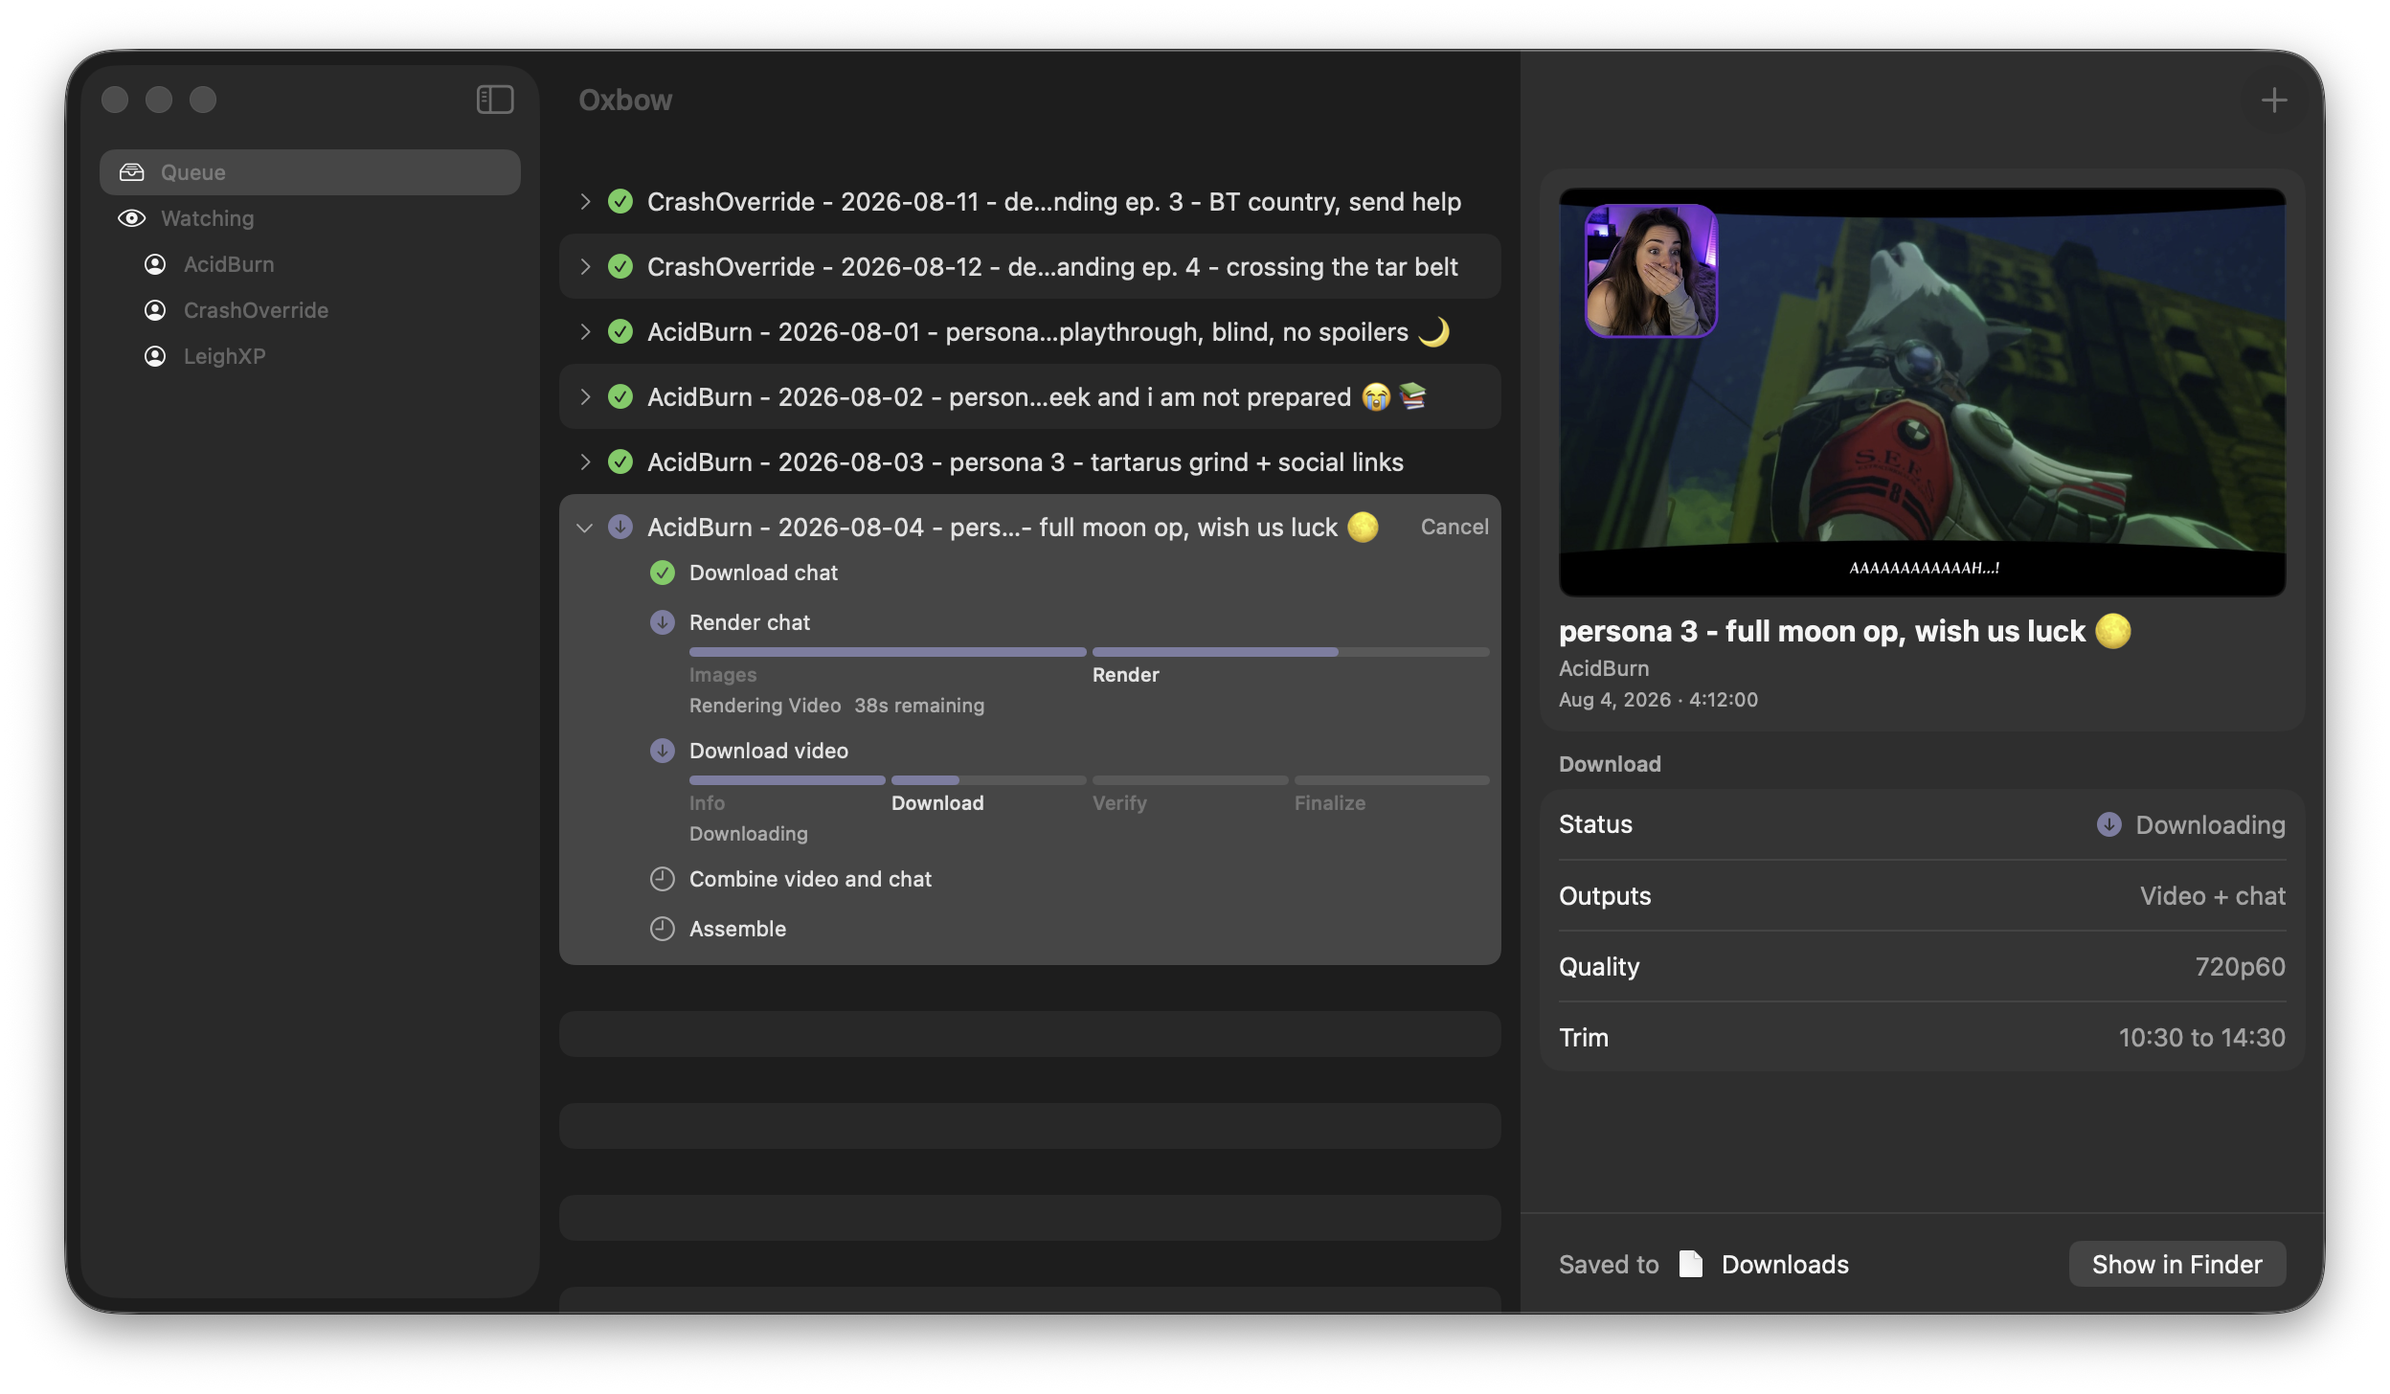
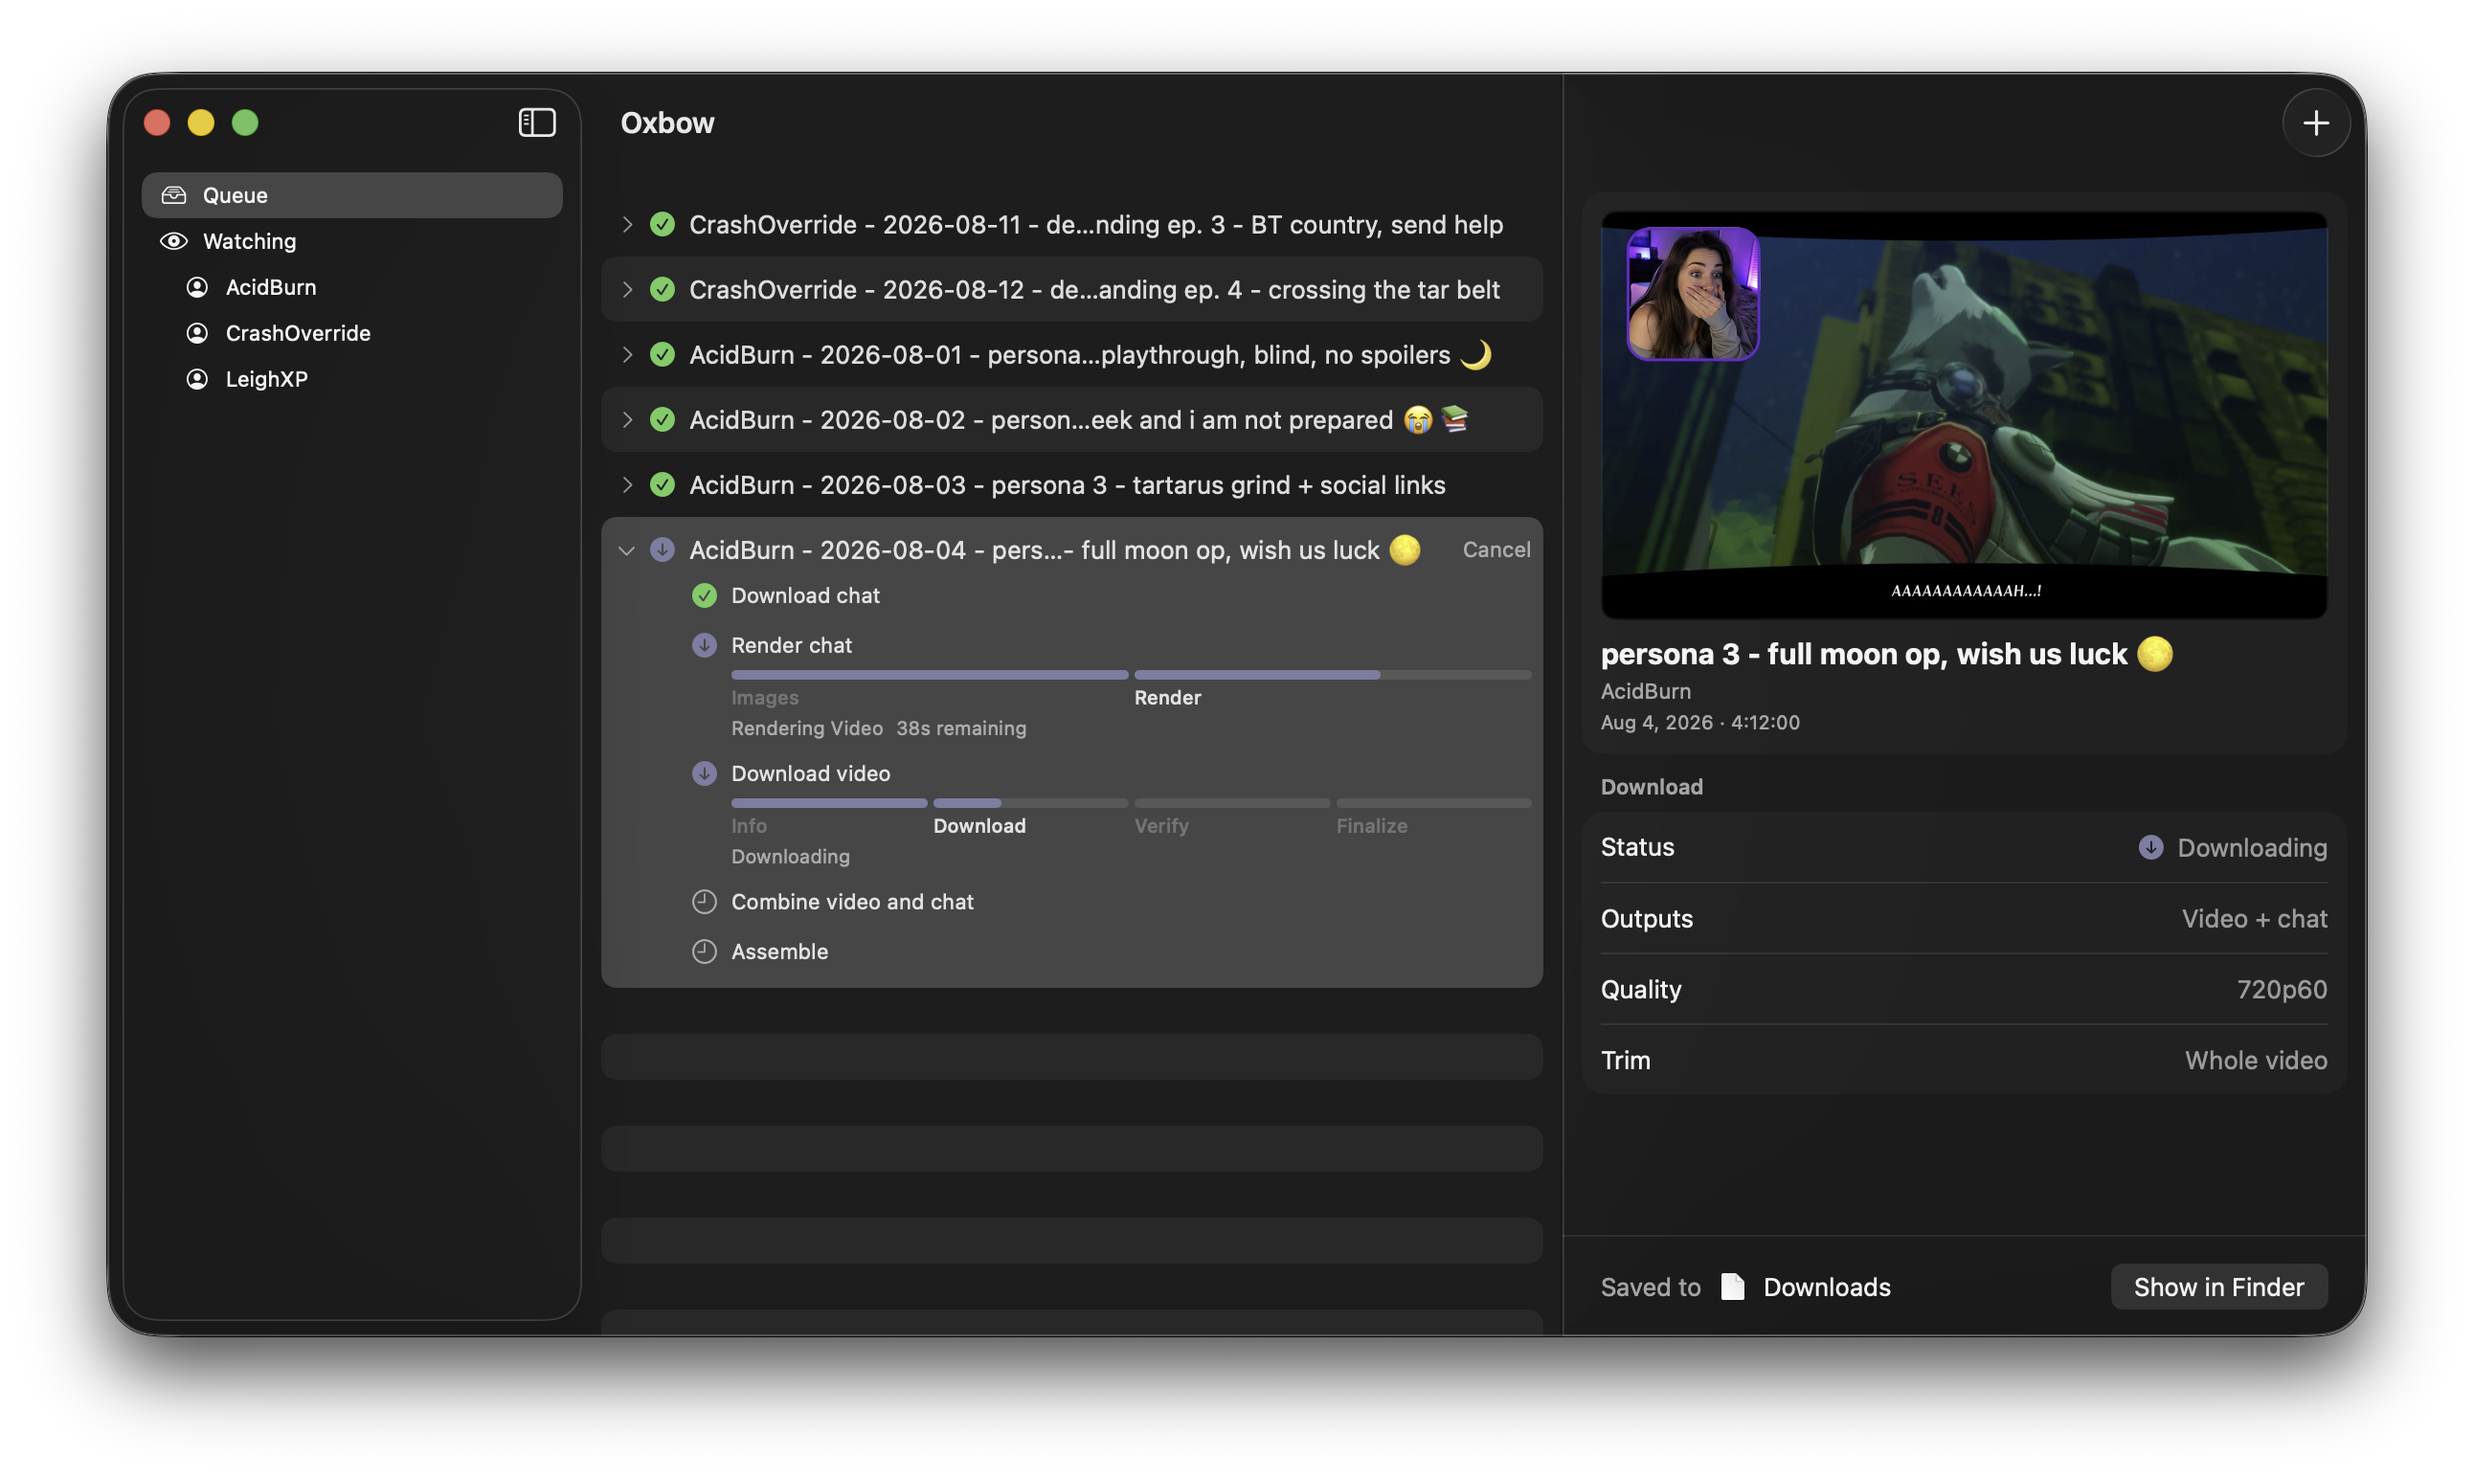
Capture an active window, downloading a whole video
Two things the regenerated screenshot showed that it should not have.

**The window was inactive.** Grey traffic lights, an unaccented default
button, a smaller shadow — not what anyone's Oxbow looks like while they are
using it. The harness settled for that because a shell-launched process is not
frontmost and `NSApp.activate` only sometimes wins that fight. The fix is the
launch, not the API: `open -n` is an ordinary foreground launch, so the app
comes forward the way it would from the Dock. `ScreenshotWindowFocus` then
raises the queue window back over the intake, which opens after it and takes
key status with it. The PID now comes from `pgrep` on the build's own path,
since `open` returns without telling us what it started — and that path cannot
match the developer's own instance, which is what `-n` and the old direct
launch were both protecting.

The composite's scale gained two terms that fit the whole capture inside the
canvas: an active window's shadow is much larger, enough to run off the edge
while the window body still sat a comfortable 74px inside it.

**Every job in the fixture was trimmed**, the mid-flight one to four minutes,
which the inspector duly reported as "10:30 to 14:30". That is an artifact of
where the fixture came from — you trim to four minutes so a test download
finishes — and as a screenshot it advertises that Oxbow fetches four minutes
of a four-hour stream. `make-fixture.py` now drops `trimStart` and `trimEnd`
[…]

Changed region(s): [[0.0, 0.0309, 1.0, 0.9581], [0.5312, 0.5563, 0.5625, 0.5872]]

diff --git a/Oxbow/ScreenshotFixture.swift b/Oxbow/ScreenshotFixture.swift
@@ -211,24 +211,48 @@ struct ScreenshotIntakeOpener: View {
       .onAppear {
         guard ScreenshotFixture.link != nil else { return }
         openWindow(id: windowID)
-        // Deliberately not activating the app.
-        //
-        // A shell-launched app is not frontmost, so its windows draw inactive:
-        // grey traffic lights, and a default button that is not accented. An
-        // earlier version called NSApp.activate to fix that, and it worked
-        // often enough to look correct -- but macOS does not let an app take
-        // focus from whatever the person is actually using, so whether it
-        // succeeded depended on what else happened to be running. A capture
-        // that is prettier on some machines than others is worse than one that
-        // is plainly consistent, and the difference is not only cosmetic: an
-        // inactive window gets a smaller shadow, so the composite's geometry
-        // moved too.
-        //
-        // Inactive on purpose, therefore. The layout arithmetic in
-        // screenshots.sh derives the shadow inset from the capture, so it
-        // stays correct either way.
+        // Focus is `ScreenshotWindowFocus`'s business, below, not this
+        // view's -- opening the intake is the last thing that happens here,
+        // and it is precisely what takes key status away from the window the
+        // hero is of.
       }
   }
+}
+
+/// Brings the app forward and puts the window hosting it back in front.
+///
+/// **The captures used to be of an inactive app, deliberately.** A
+/// shell-launched process is not frontmost, so macOS drew grey traffic
+/// lights, an unaccented default button and a smaller shadow; an earlier
+/// version called `NSApp.activate` to fix that and got it only sometimes,
+/// because macOS will not let an app take focus from whatever the person is
+/// actually using. A capture prettier on some machines than others is worse
+/// than one that is plainly wrong in the same way everywhere, so the harness
+/// settled for inactive.
+///
+/// What changed is the launch, not the API: `scripts/screenshots.sh` now
+/// starts the app with `open -n`, which is an ordinary foreground launch, so
+/// coming forward is not something this has to win against the Finder.
+///
+/// **Raising is the other half.** The intake window opens a moment after this
+/// one and takes key status with it, which would leave the hero -- the queue
+/// window -- drawn inactive in an app that is otherwise frontmost. The delay
+/// is what lets the intake finish appearing before this takes it back; the
+/// script waits considerably longer than this before capturing anything.
+///
+/// `view.window` rather than a title match: this view is in the queue
+/// window's own background, so it needs no way to identify it.
+struct ScreenshotWindowFocus: NSViewRepresentable {
+  func makeNSView(context: Context) -> NSView {
+    let view = NSView(frame: .zero)
+    DispatchQueue.main.asyncAfter(deadline: .now() + 1.0) {
+      NSApp.activate()
+      view.window?.makeKeyAndOrderFront(nil)
+    }
+    return view
+  }
+
+  func updateNSView(_ nsView: NSView, context: Context) {}
 }
 
 /// Resizes the window hosting it to `ScreenshotFixture.windowSize`.

diff --git a/Oxbow/OxbowApp.swift b/Oxbow/OxbowApp.swift
@@ -133,6 +133,7 @@ struct OxbowApp: App {
       .background {
         ScreenshotWindowSizer()
         ScreenshotIntakeOpener(windowID: Self.intakeWindowID)
+        ScreenshotWindowFocus()
       }
       #endif
       // Its own task, not a step inside `setUp()`: the two are unrelated,

diff --git a/scripts/screenshots/make-fixture.py b/scripts/screenshots/make-fixture.py
@@ -25,6 +25,9 @@ What gets replaced, and why each one:
                   diff on every run. Made deterministic instead.
   created         real timestamps. Not what orders the list — QueueView
                   draws controller.jobs in array order — but still real.
+  trimStart/End   dropped outright: a development queue trims to four minutes
+                  so a test download finishes, and the screenshot should not
+                  advertise that as what Oxbow does.
 
 Usage:
     ./make-fixture.py                       # from the live app's queue.json
@@ -163,6 +166,14 @@ def scrub(node, job_index, counter):
             elif key in ("destination", "artifact") and isinstance(value, str):
                 name = Path(value).name
                 out[key] = f"file:///Users/oxbow/Downloads/{name}"
+            elif key in ("trimStart", "trimEnd"):
+                # Dropped, not replaced. A development queue is full of
+                # four-minute trims because that is how you test a download
+                # without waiting for one; in a published screenshot that reads
+                # as "Oxbow fetches four minutes of a four-hour stream". Both
+                # fields are optional on the request, so leaving them out is
+                # the same as never having trimmed.
+                continue
             elif key == "rawValue" and isinstance(value, str) and "-" in value:
                 counter[0] += 1
                 out[key] = stable_uuid(job_index, counter[0])
